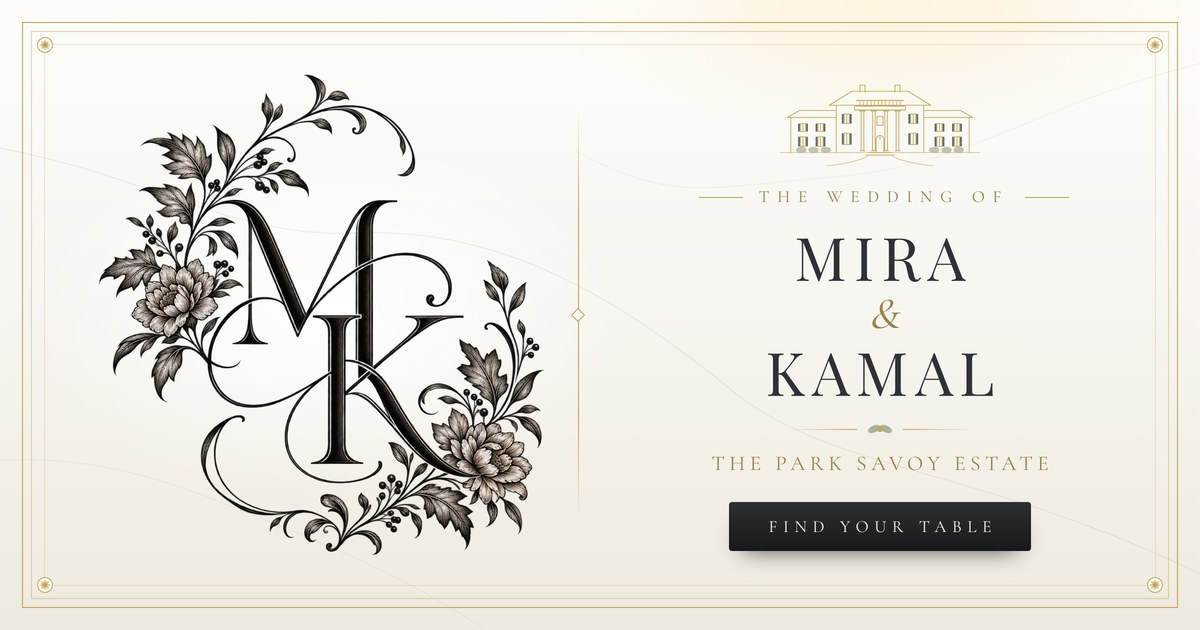
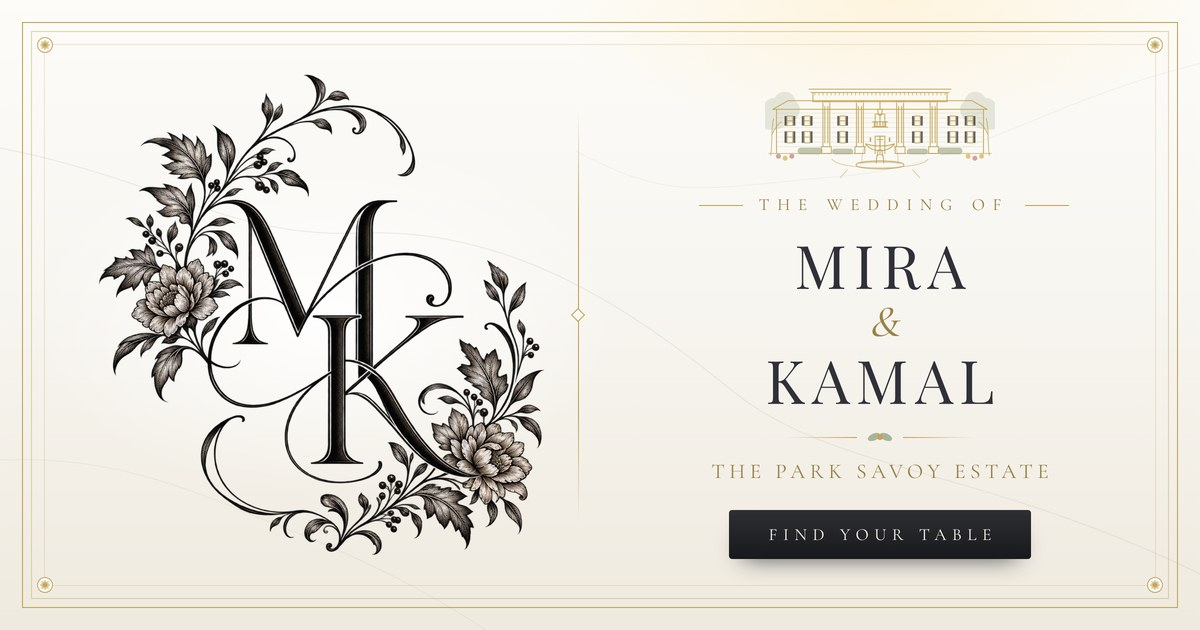
Wedding: redraw the estate from the Park Savoy's own front
Drawn from the venue's photograph rather than written descriptions: a
long two-storey clapboard house under a low hipped roof with black
shutters, the deep flat-roofed porch on four square panelled pillars
with a dentil cornice, the Juliet balcony and hanging lantern over the
front door, the tiered fountain in its round brick court, boxwood
hedges, mums and a tree either side. Re-renders the link-preview card
with the new drawing.

Claude-Session: https://claude.ai/code/session_011Sbhh6dCgMpx6NYGR4aHMs

diff --git a/src/components/guest/templates/WeddingTemplate.tsx b/src/components/guest/templates/WeddingTemplate.tsx
@@ -28,82 +28,91 @@ const template = EVENT_TEMPLATES.wedding;
 const { palette } = template;
 
 /**
- * The estate seen from the brick drive: a long white house under a hipped
- * roof, two chimneys, lower wings either side, black shutters on every window
- * and the two-storey columned portico at the centre, flat-topped with a
- * balustrade — a country house, not a temple front. Hedges line the facade
- * and the drive opens towards the viewer.
+ * The Park Savoy's front, drawn from the entrance court: a long two-storey
+ * clapboard house under a low hipped roof, black shutters on every window,
+ * and the deep flat-roofed porch on four square pillars with a dentil cornice.
+ * Under it, a lantern hangs over the front door and an iron Juliet balcony;
+ * in front, the tiered fountain in its round brick court, boxwood hedges and
+ * mums, with a tree either side.
  */
 function Estate() {
-  const columns = [100, 113, 127, 140];
-  // [centre x, top, height] for each window, both storeys of every block.
+  const pillars = [64, 99, 141, 176];
+  // [centre x, top, height] for each window, both storeys.
   const windows: [number, number, number][] = [
-    [82, 40, 11], [158, 40, 11], [82, 62, 13], [158, 62, 13],
-    [32, 51, 9], [52, 51, 9], [188, 51, 9], [208, 51, 9],
-    [32, 66, 11], [52, 66, 11], [188, 66, 11], [208, 66, 11],
+    [26, 47, 10], [44, 47, 10], [81, 47, 10], [159, 47, 10], [196, 47, 10], [214, 47, 10],
+    [26, 63, 12], [44, 63, 12], [81, 63, 12], [159, 63, 12], [196, 63, 12], [214, 63, 12],
   ];
-  const hedges = [30, 44, 58, 182, 196, 210];
-  const balusters = Array.from({ length: 12 }, (_, i) => 97 + i * 4.2);
+  const siding = Array.from({ length: 8 }, (_, i) => 44 + i * 5);
+  const dentils = Array.from({ length: 33 }, (_, i) => 52 + i * 4.25);
+  const mums: [number, number, string][] = [
+    [14, 89, '#C98B8B'], [21, 91, '#D9B866'], [28, 89, '#C98B8B'],
+    [212, 89, '#D9B866'], [219, 91, '#C98B8B'], [226, 89, '#D9B866'],
+  ];
 
   return (
-    <svg className="wed-crest" viewBox="0 0 240 100" aria-hidden width="100%" style={{ maxWidth: 210 }}>
+    <svg className="wed-crest" viewBox="0 0 240 112" aria-hidden width="100%" style={{ maxWidth: 230 }}>
+      {/* Tree canopies and hedges sit behind the line work. */}
+      <g className="wed-crest-fill" fill={palette.dividerLeaf} fillOpacity=".28">
+        <path d="M-4 58 C -8 40, 0 28, 10 28 C 16 18, 30 20, 32 32 C 40 36, 36 52, 26 54 C 18 62, 2 64, -4 58 Z" />
+        <path d="M244 58 C 248 40, 240 28, 230 28 C 224 18, 210 20, 208 32 C 200 36, 204 52, 214 54 C 222 62, 238 64, 244 58 Z" />
+      </g>
+      <g className="wed-crest-fill" fill={palette.dividerLeaf} fillOpacity=".75">
+        <rect x="34" y="80" width="26" height="7" rx="3.5" />
+        <rect x="70" y="81" width="22" height="6" rx="3" />
+        <rect x="148" y="81" width="22" height="6" rx="3" />
+        <rect x="180" y="80" width="26" height="7" rx="3.5" />
+      </g>
+      <g className="wed-crest-fill" fillOpacity=".8">
+        {mums.map(([x, y, c]) => (
+          <circle key={`${x}-${y}`} cx={x} cy={y} r="2.6" fill={c} />
+        ))}
+      </g>
+
       <g fill="none" stroke={palette.accent} strokeWidth=".9" strokeLinecap="round" strokeLinejoin="round">
-        {/* Roofs and chimneys */}
-        <path d="M62 30 L88 14 H152 L178 30 Z" pathLength={1} />
-        <path d="M97 15 V7 H103 V15 M137 15 V7 H143 V15" pathLength={1} />
-        <path d="M14 44 L28 36 H70 M226 44 L212 36 H170 M14 44 H70 M170 44 H226" pathLength={1} />
-        {/* Walls */}
-        <path d="M70 30 V84 M170 30 V84 M18 44 V84 M222 44 V84" pathLength={1} />
-        {/* Windows, each with its pair of black shutters */}
+        {/* House: low hipped roof over a long clapboard front */}
+        <path d="M8 40 L24 31 H216 L232 40 Z" pathLength={1} />
+        <path d="M12 40 V86 M228 40 V86" pathLength={1} />
+        <path d={siding.map((y) => `M12 ${y} H228`).join(' ')} pathLength={1} opacity=".18" />
+        {/* Windows with their black shutters */}
         {windows.map(([x, top, h]) => (
           <g key={`${x}-${top}`}>
-            <path d={`M${x - 3} ${top} h6 v${h} h-6 Z M${x} ${top} v${h}`} pathLength={1} />
-            <rect
-              className="wed-crest-fill"
-              x={x - 5.6}
-              y={top}
-              width="2.1"
-              height={h}
-              fill={palette.heading}
-              stroke="none"
-              fillOpacity=".72"
-            />
-            <rect
-              className="wed-crest-fill"
-              x={x + 3.5}
-              y={top}
-              width="2.1"
-              height={h}
-              fill={palette.heading}
-              stroke="none"
-              fillOpacity=".72"
-            />
+            <path d={`M${x - 3} ${top} h6 v${h} h-6 Z M${x - 3} ${top + h / 2} h6`} pathLength={1} />
+            <rect className="wed-crest-fill" x={x - 5.6} y={top} width="2.1" height={h} fill={palette.heading} stroke="none" fillOpacity=".75" />
+            <rect className="wed-crest-fill" x={x + 3.5} y={top} width="2.1" height={h} fill={palette.heading} stroke="none" fillOpacity=".75" />
           </g>
         ))}
-        {/* Portico: balustrade, entablature and four two-storey columns */}
-        <path d="M93 24.5 H147 M93 30.5 H147" pathLength={1} />
-        <path d={balusters.map((x) => `M${x} 25 V30`).join(' ')} pathLength={1} opacity=".8" />
-        <path d="M91 31 H149 V35.5 H91 Z" pathLength={1} />
-        {columns.map((x) => (
+        {/* Centre bay: French door and Juliet balcony, front door and lamps */}
+        <path d="M115 45 h10 v13 h-10 Z M120 45 v13" pathLength={1} />
+        <path d={`M112 58.5 H128 M112 53 H128 ${[114, 117, 120, 123, 126].map((x) => `M${x} 53 V58.5`).join(' ')}`} pathLength={1} />
+        <path d="M115 86 V68 H125 V86 M120 68 V86" pathLength={1} />
+        <path d="M110 70 v3 M130 70 v3" pathLength={1} strokeWidth="1.6" />
+        {/* Porch: dentil cornice, deep fascia, four square panelled pillars */}
+        <path d="M46 19 H194 M48 22.5 H192 M50 32 H190 M50 22.5 V32 M190 22.5 V32" pathLength={1} />
+        <path d={dentils.map((x) => `M${x} 22.5 V25`).join(' ')} pathLength={1} opacity=".7" />
+        {pillars.map((x) => (
           <path
             key={x}
-            d={`M${x - 3.2} 36.5 H${x + 3.2} M${x - 1.5} 36.5 V82 M${x + 1.5} 36.5 V82 M${x - 2.8} 82 H${x + 2.8}`}
+            d={`M${x - 5} 32 H${x + 5} M${x - 3.6} 33.5 V79 M${x + 3.6} 33.5 V79 M${x - 1.6} 37 V75 M${x + 1.6} 37 V75 M${x - 5.2} 79 H${x + 5.2} V86 H${x - 5.2} Z`}
             pathLength={1}
           />
         ))}
-        {/* Upper window and the fanlit front door between the centre columns */}
-        <path d="M116.5 43 h7 v10 h-7 Z" pathLength={1} />
-        <path d="M115.5 84 V69 A4.5 4.5 0 0 1 124.5 69 V84 M120 64.5 V69" pathLength={1} />
-        {/* Steps, ground and the brick drive opening towards us */}
-        <path d="M107 84 H133 M103 87 H137" pathLength={1} />
-        <path d="M6 84 H234" pathLength={1} opacity=".7" />
-        <path d="M107 88 C 98 93, 80 97, 58 99.5 M133 88 C 142 93, 160 97, 182 99.5" pathLength={1} opacity=".6" />
+        {/* The lantern hanging from the porch ceiling */}
+        <path d="M120 32 V40 M117.5 40 h5 l-1 6 h-3 Z" pathLength={1} />
+        {/* Fountain: basin, tiered bowl and statue, falling water */}
+        <path d="M95 98 C 95 92.5, 145 92.5, 145 98 C 145 103.5, 95 103.5, 95 98 Z" pathLength={1} />
+        <path d="M99 97 C 99 94.5, 141 94.5, 141 97" pathLength={1} opacity=".6" />
+        <path d="M116 96 C 116 91, 117.5 87, 118 82.5 H122 C 122.5 87, 124 91, 124 96 M118 88 C 119 86.5, 121 86.5, 122 88" pathLength={1} />
+        <path d="M105 76 Q 110 83 120 83 Q 130 83 135 76 Q 127.5 78.5 120 78 Q 112.5 78.5 105 76 Z" pathLength={1} />
+        <path d="M120 78 V71.5 M117 71.5 h6 M120 71.5 V68" pathLength={1} />
+        <path d="M105.5 77 C 102 82, 101 88, 101 95 M134.5 77 C 138 82, 139 88, 139 95" pathLength={1} opacity=".5" strokeDasharray="1.2 2.2" />
+        {/* Ground line and the round brick court opening towards us */}
+        <path d="M4 86 H94 M146 86 H236" pathLength={1} opacity=".7" />
+        <path d="M70 92 C 76 104, 164 104, 170 92 M86 103 L78 112 M154 103 L162 112" pathLength={1} opacity=".55" />
       </g>
-      {/* Clipped boxwood along the front garden */}
-      <g className="wed-crest-fill" fill={palette.dividerLeaf} fillOpacity=".75">
-        {hedges.map((x) => (
-          <ellipse key={x} cx={x} cy="81" rx="6" ry="3.6" />
-        ))}
+      {/* Tree trunks, drawn over the ends of the house as in the photograph */}
+      <g fill="none" stroke={palette.accent} strokeWidth=".9" strokeLinecap="round">
+        <path d="M6 88 C 8 74, 6 62, 9 50 M7.5 66 C 10 60, 13 56, 17 53" pathLength={1} opacity=".8" />
+        <path d="M234 88 C 232 74, 234 62, 231 50 M232.5 66 C 230 60, 227 56, 223 53" pathLength={1} opacity=".8" />
       </g>
     </svg>
   );
@@ -297,7 +306,7 @@ export default function WeddingTemplate({ portal }: { portal: GuestPortal }) {
               <Rosette className="-bottom-2 -right-2" />
             </div>
 
-            <div className="mx-auto mb-4 flex w-[78%] max-w-[210px] justify-center sm:mb-5">
+            <div className="mx-auto mb-4 flex w-[86%] max-w-[230px] justify-center sm:mb-5">
               <Estate />
             </div>
 

diff --git a/CLAUDE.md b/CLAUDE.md
@@ -188,9 +188,11 @@ gesture works against that rather than against four different record shapes.
   own `fixed`, clipped layer.
 - The wedding template is styled after the Park Savoy Estate (Florham Park,
   NJ): white Carrara marble, gilt boiserie panel with rosettes, a line drawing
-  of the mansion itself (hipped roof, wings, black-shuttered windows, the flat-
-  topped two-storey columned portico, hedges and brick drive — a pediment and
-  steps read as a courthouse), and a crystal chandelier on wider screens.
+  of the real front (from the venue's photo: two-storey clapboard house, black
+  shutters, the flat-roofed porch on four square panelled pillars with a dentil
+  cornice, Juliet balcony and lantern, tiered fountain in a round brick court,
+  boxwood and mums — not a pediment, which read as a courthouse), and a crystal
+  chandelier on wider screens.
 - Site icons and the link preview are the couple's monogram on ivory, via Next's
   file convention in `src/app/` (`favicon.ico`, `icon.png`, `apple-icon.png`,
   `opengraph-image.jpg` + `.alt.txt`). The link preview is a designed card —
